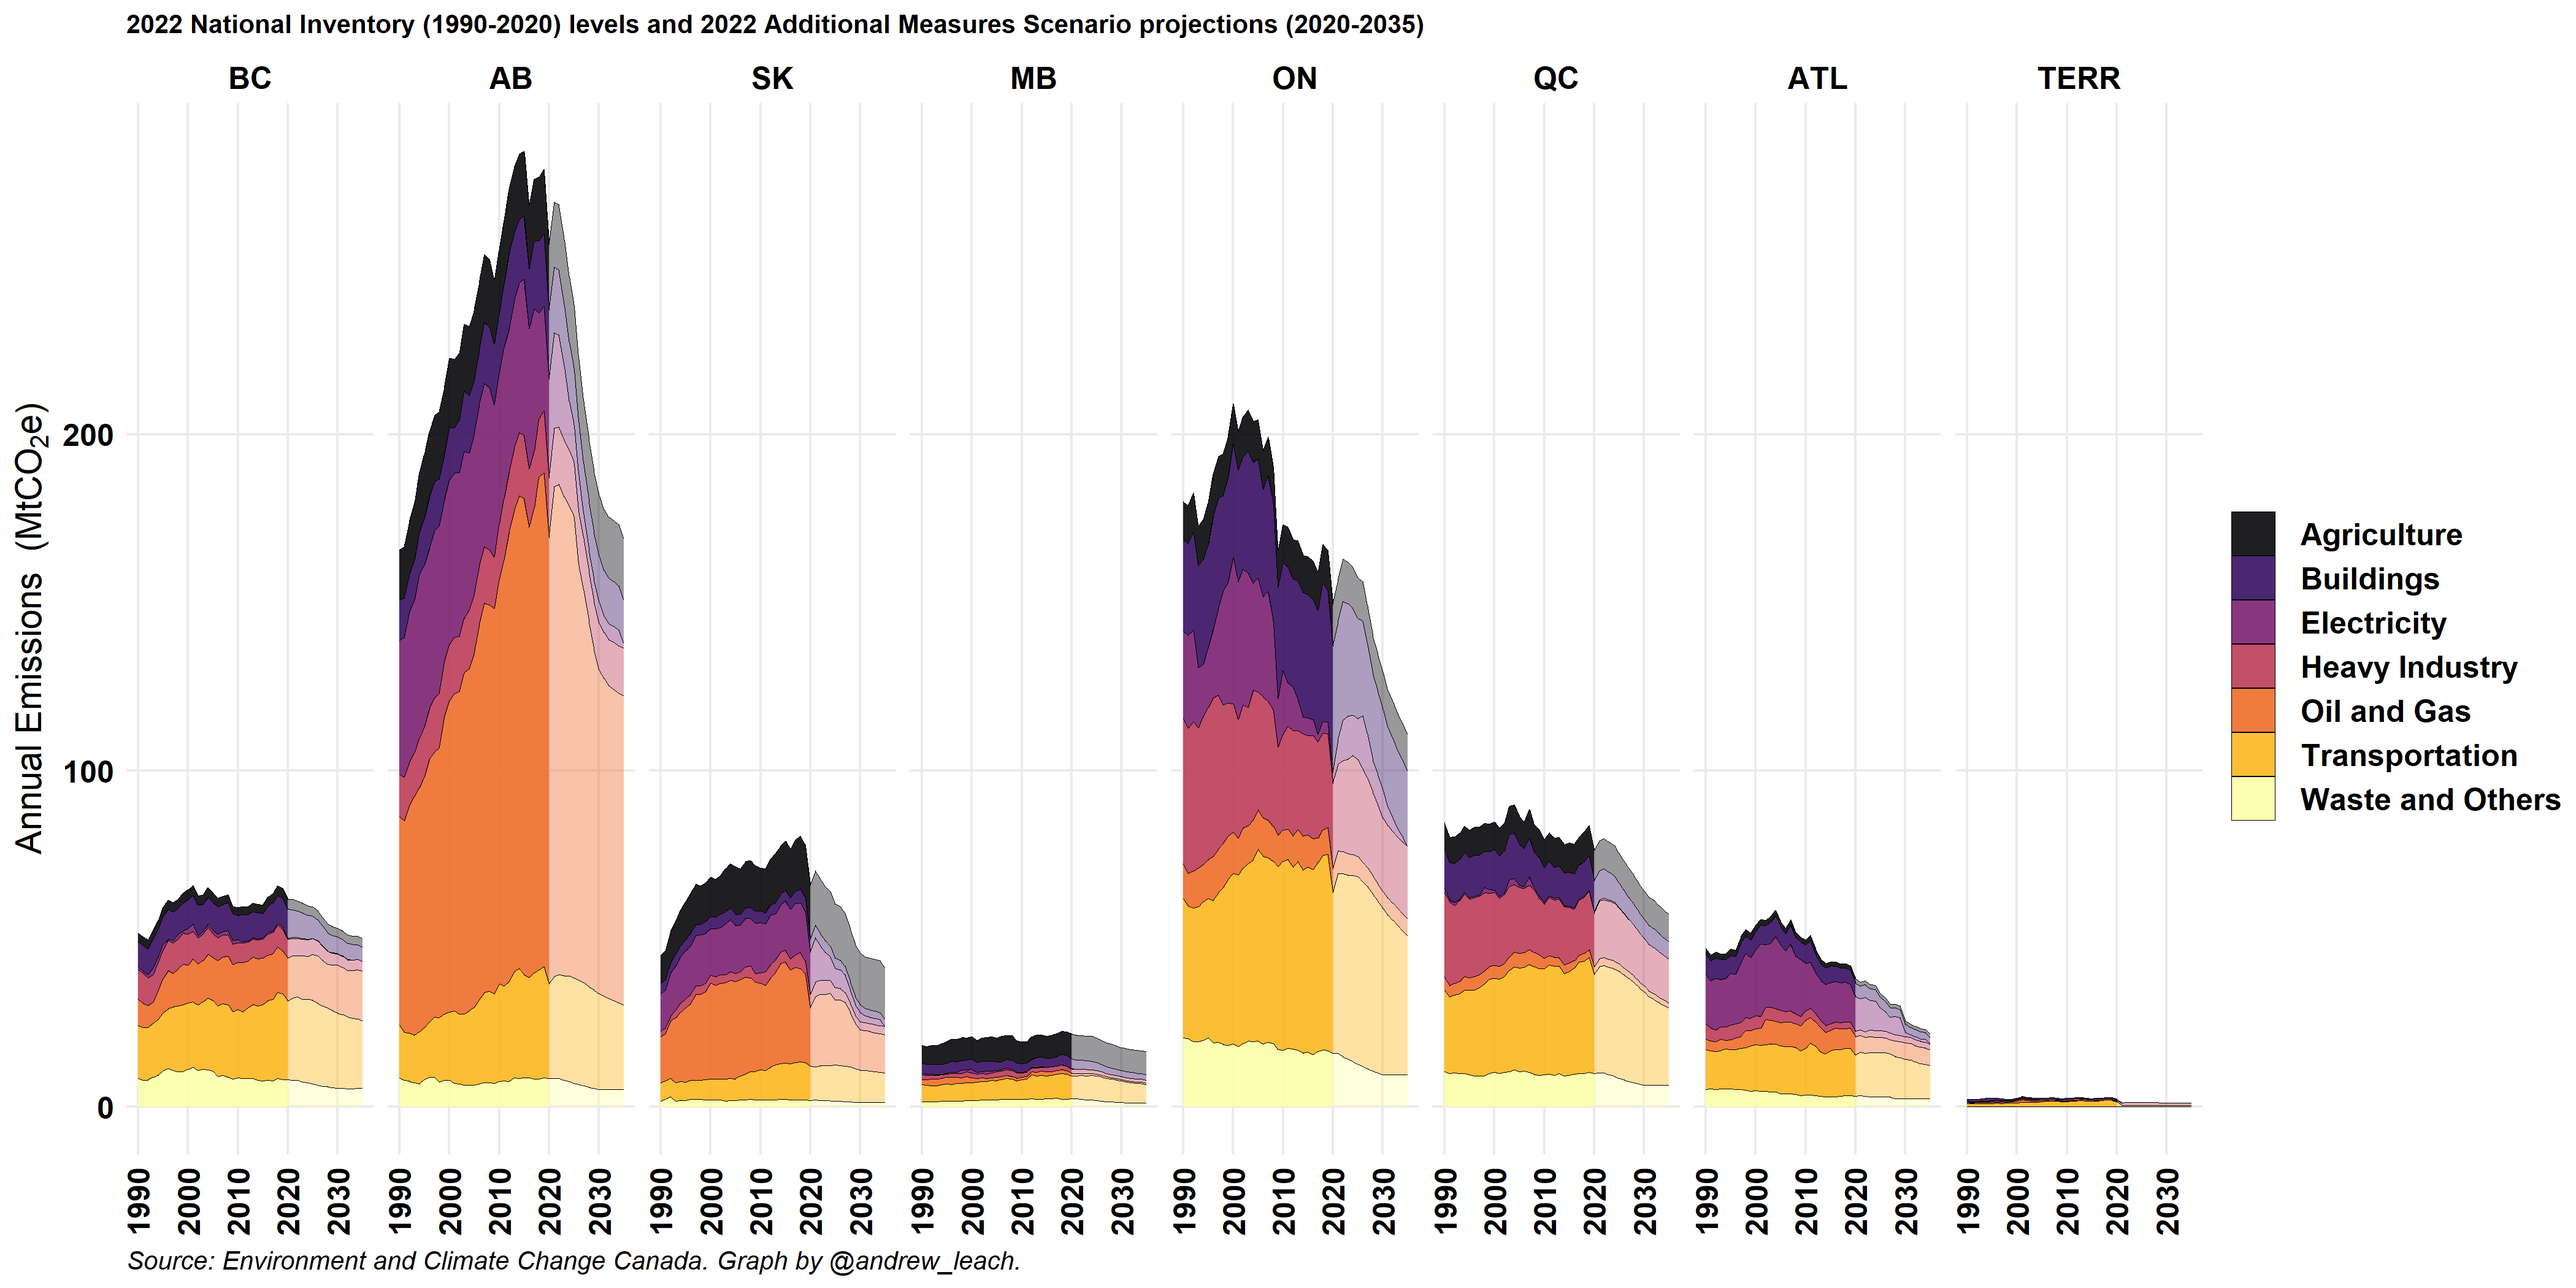
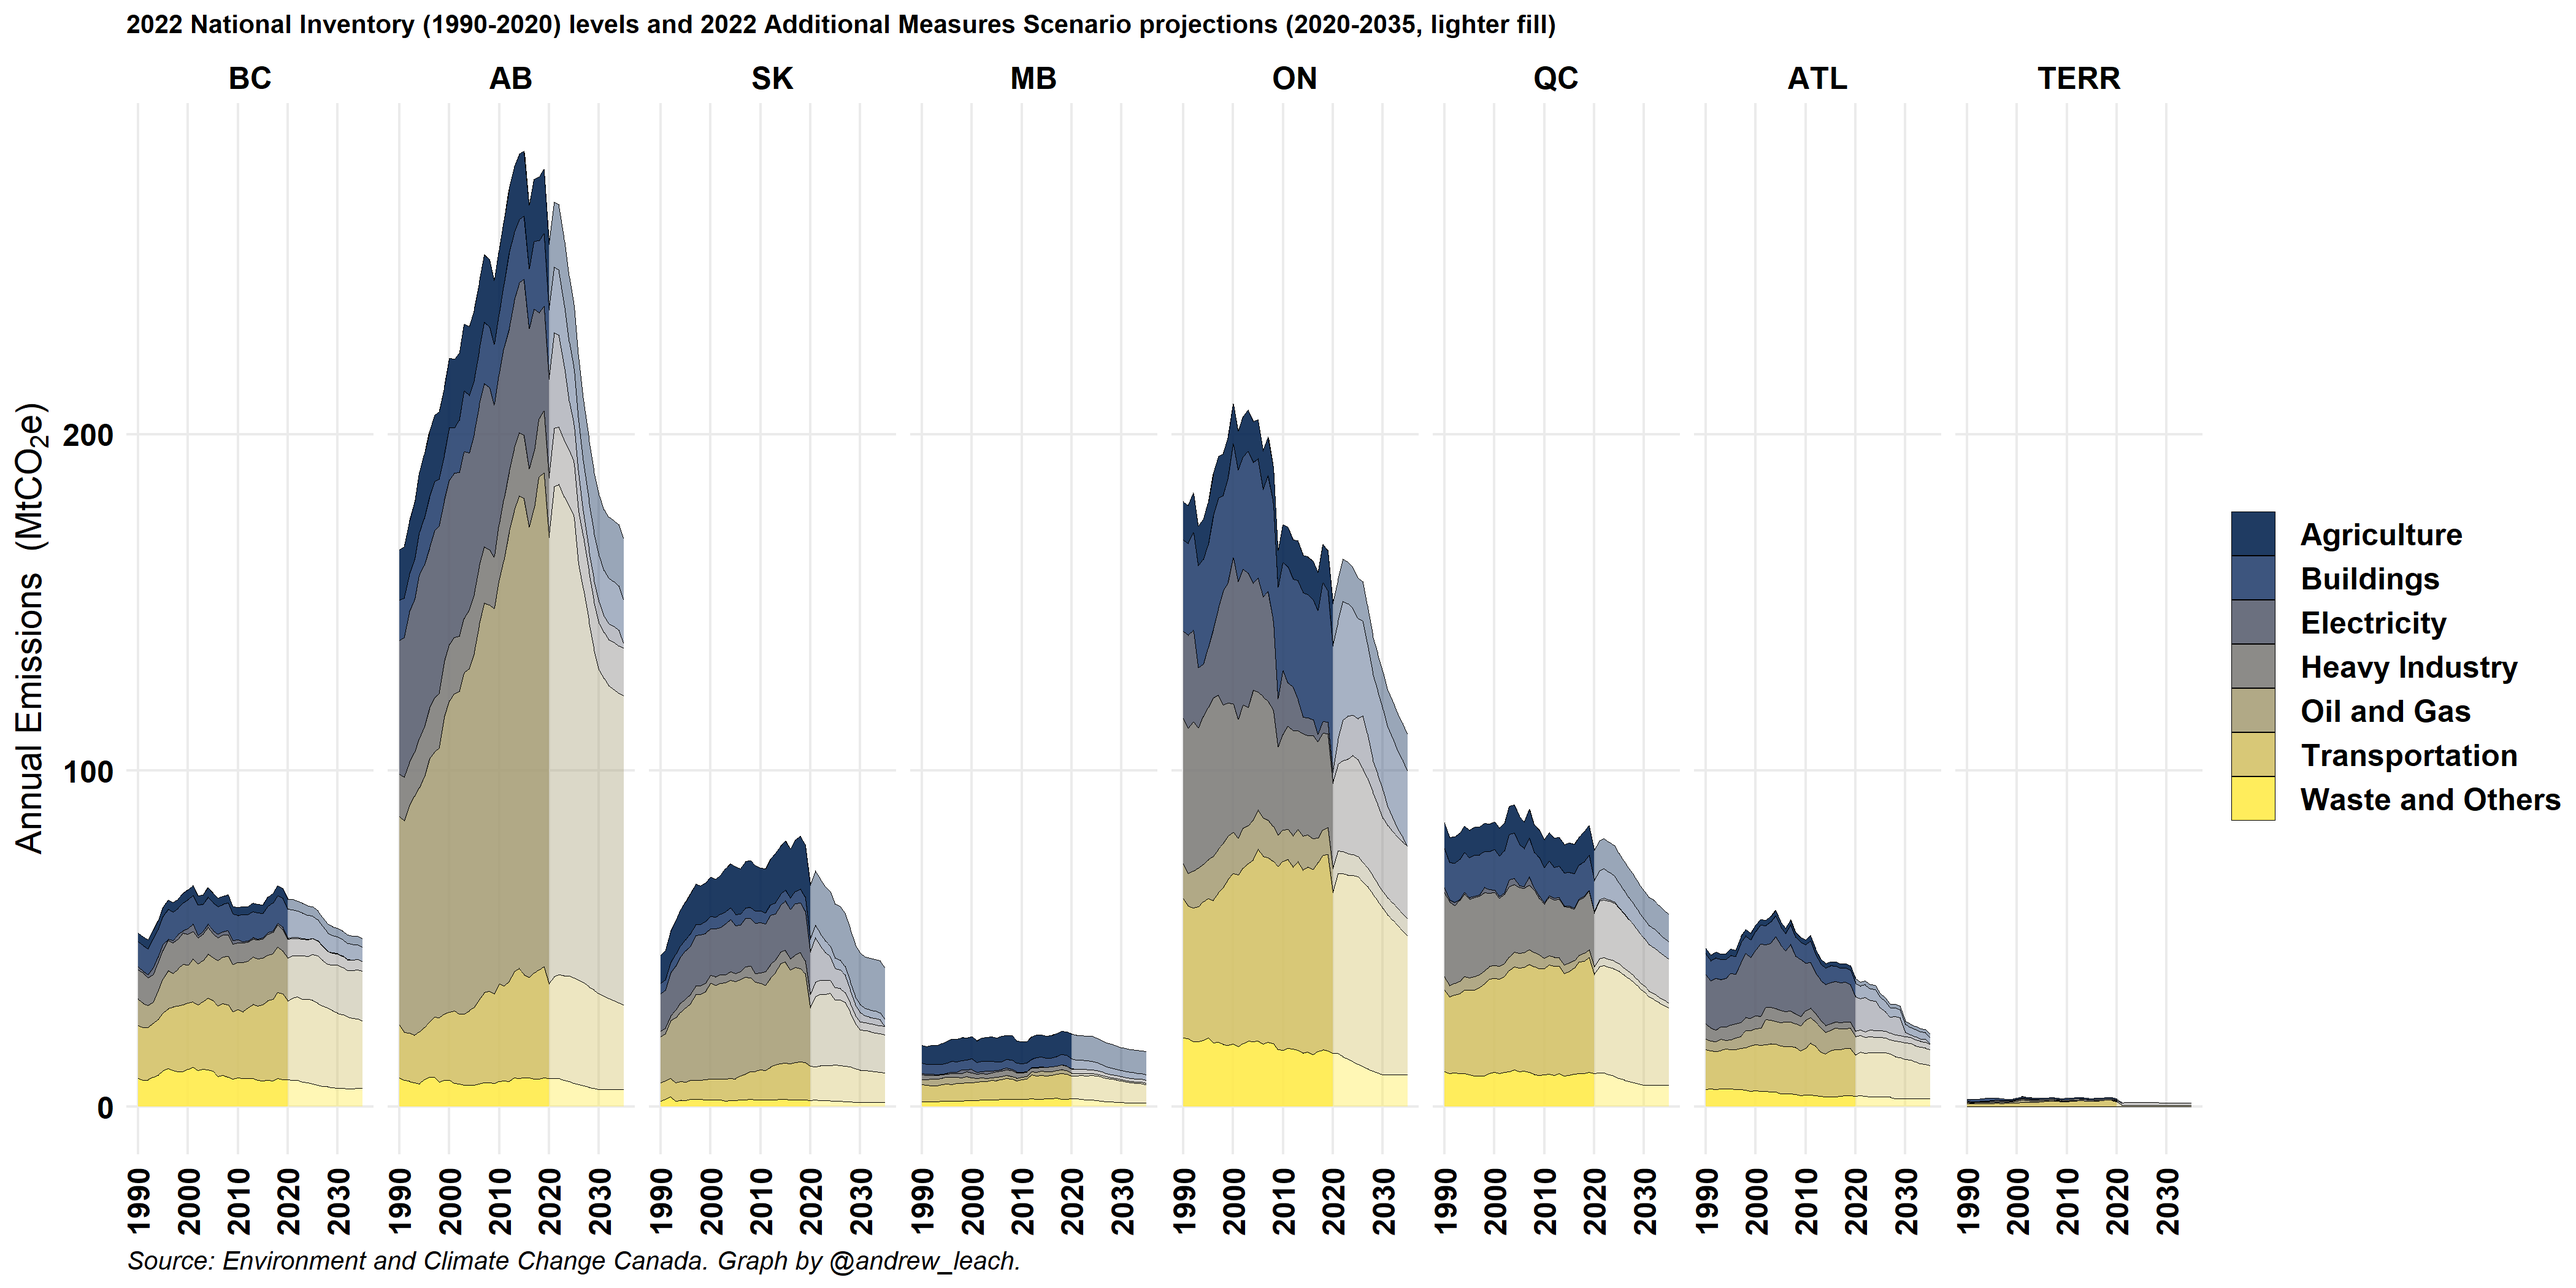
new colors

diff --git a/projections.md b/projections.md
@@ -26,7 +26,7 @@ We can also look carefully at a couple of key sectors:
 Oil and gas
 
 <a href="images/oil_gas_proj" target="_blank">
-  <img border="0" align="center"  src="images/oil_gas_proj.png"/>
+  <img border="0" align="center"  src="images/oil_proj.png"/>
 </a>
 
 and power
